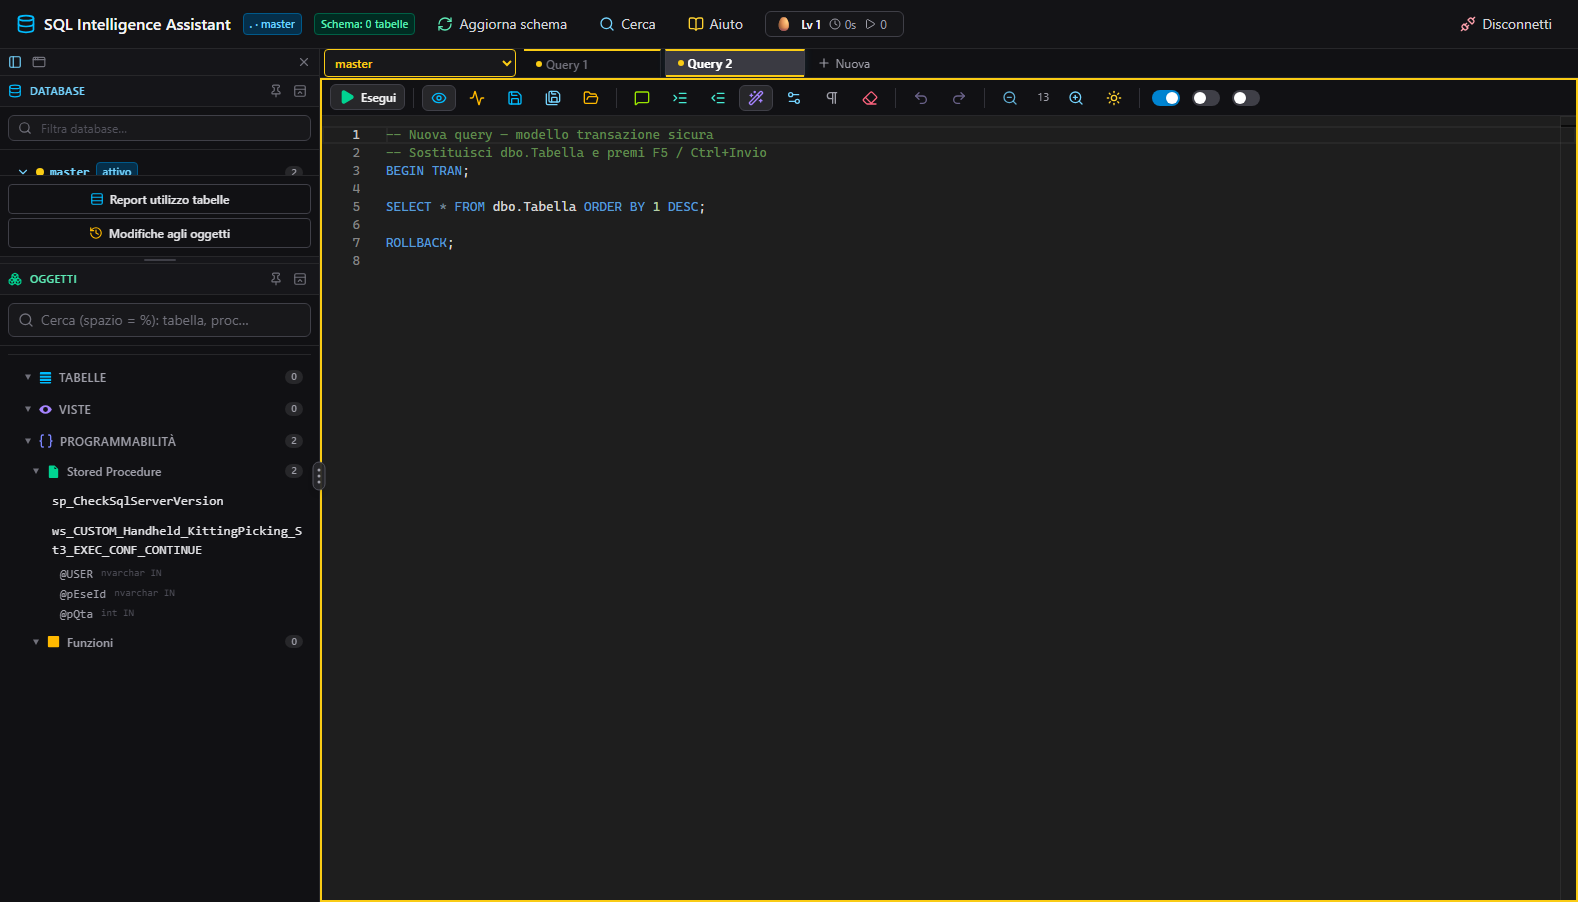
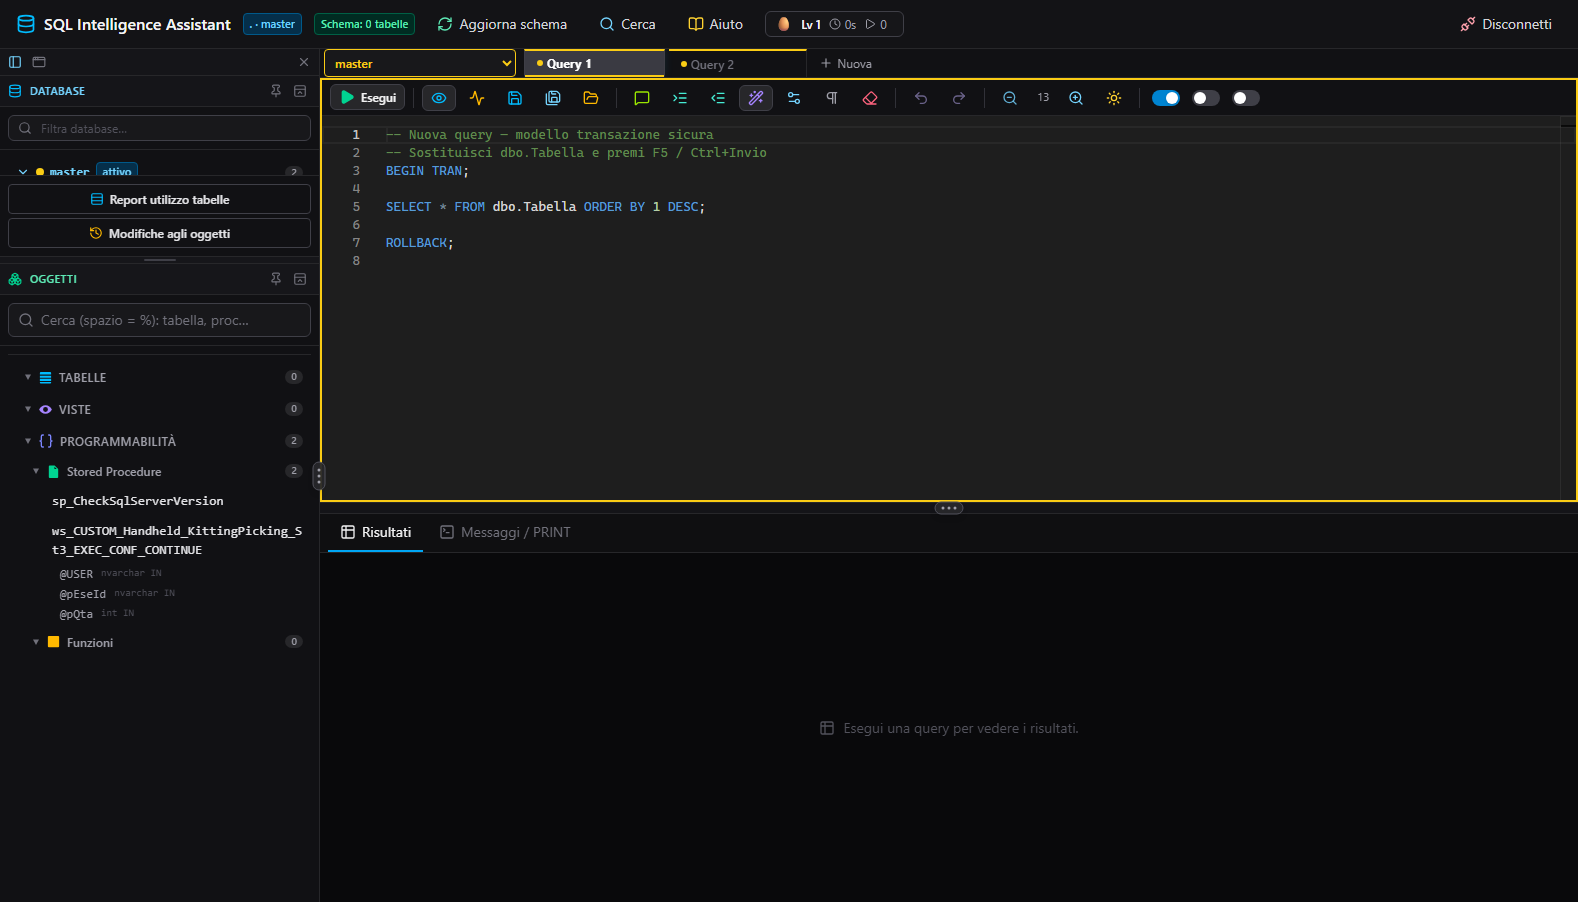
Switcher delle tab: funziona con tasti VERI (Alt+PagGiù, Ctrl+Alt+PagGiù/AltGr)
L'utente: "ho provato con alt e alt gr ma non succede nulla".

Causa trovata: l'handler era registrato DUE volte (window e document, entrambi in capture): lo stesso tasto
veniva gestito due volte, la selezione avanzava di DUE passi e con due tab si tornava esattamente a quella
di partenza — sembrava che non succedesse nulla. Ora c'è UN solo listener, in capture su document (così
Monaco non può fermare l'evento).

Inoltre:
- combinazioni accettate: Alt+PagGiù / Alt+PagSu e Ctrl+Alt+PagGiù / Ctrl+Alt+PagSu (con AltGr della
  tastiera italiana, che è Ctrl+Alt), Shift inverte il verso;
- la verifica ora usa TASTI VERI (Input.dispatchKeyEvent: rawKeyDown Alt, rawKeyDown/Up PagGiù, keyUp Alt) e
  non eventi sintetici: è così che si è scoperto il doppio ascolto.

Verifiche: --verify-switcher-tab 4/4 con tasti veri: Alt+PagGiù apre il pannello e passa alla penultima tab
(Query 2 → Query 1), rifacendolo torna a Query 2, Ctrl+Alt+PagGiù (AltGr) fa lo stesso. Suite 1684/1684,
npx tsc -b pulito.

Changed region(s): [[0.1863, 0.5588, 1.0, 1.0], [0.3105, 0.031, 0.5589, 0.0931], [0.2174, 0.5898, 0.2484, 0.6208]]

diff --git a/frontend/src/App.tsx b/frontend/src/App.tsx
@@ -517,8 +517,18 @@ export default function App() {
       }
     }
     const onKeyDown = (e: KeyboardEvent) => {
-      const avanti = e.altKey && (e.key === 'PageDown' || (e.shiftKey && e.key === 'PageUp'))
-      const indietro = e.altKey && e.key === 'PageUp'
+      /**
+       * Combinazioni accettate (tutte "libere" nel browser):
+       *  - Alt+PagGiù / Alt+PagSu
+       *  - Ctrl+Alt+PagGiù / Ctrl+Alt+PagSu  (con AltGr della tastiera italiana, che è Ctrl+Alt)
+       * Shift inverte il verso.
+       */
+      const paginaGiu = e.key === 'PageDown'
+      const paginaSu = e.key === 'PageUp'
+      const conAlt = e.altKey
+      const conAltECtrl = e.altKey && e.ctrlKey
+      const avanti = (conAlt || conAltECtrl) && (paginaGiu || (e.shiftKey && paginaSu))
+      const indietro = (conAlt || conAltECtrl) && paginaSu
       if (e.key === 'Escape' && switcherRef.current) {
         e.preventDefault()
         chiudi(false)
@@ -539,12 +549,17 @@ export default function App() {
     const onBlur = () => {
       if (switcherRef.current) chiudi(true)
     }
-    window.addEventListener('keydown', onKeyDown)
-    window.addEventListener('keyup', onKeyUp)
+    /**
+     * CAPTURE su DOCUMENT (uno solo!): nessun componente, Monaco compreso, può fermare l'evento prima di
+     * noi. Registrarlo anche su window lo farebbe gestire DUE volte per lo stesso tasto (la selezione
+     * avanzava di due e con due tab si tornava a quella di partenza).
+     */
+    document.addEventListener('keydown', onKeyDown, true)
+    document.addEventListener('keyup', onKeyUp, true)
     window.addEventListener('blur', onBlur)
     return () => {
-      window.removeEventListener('keydown', onKeyDown)
-      window.removeEventListener('keyup', onKeyUp)
+      document.removeEventListener('keydown', onKeyDown, true)
+      document.removeEventListener('keyup', onKeyUp, true)
       window.removeEventListener('blur', onBlur)
     }
   }, [])
